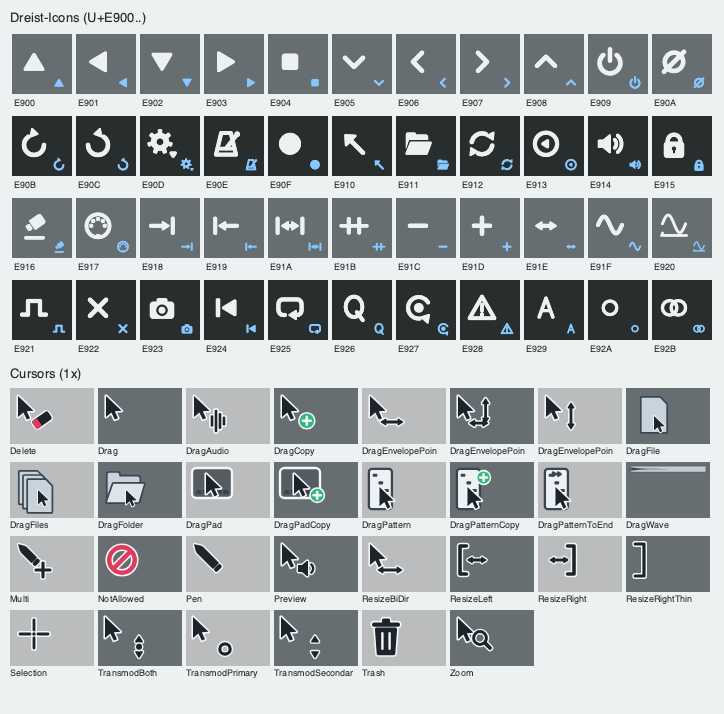
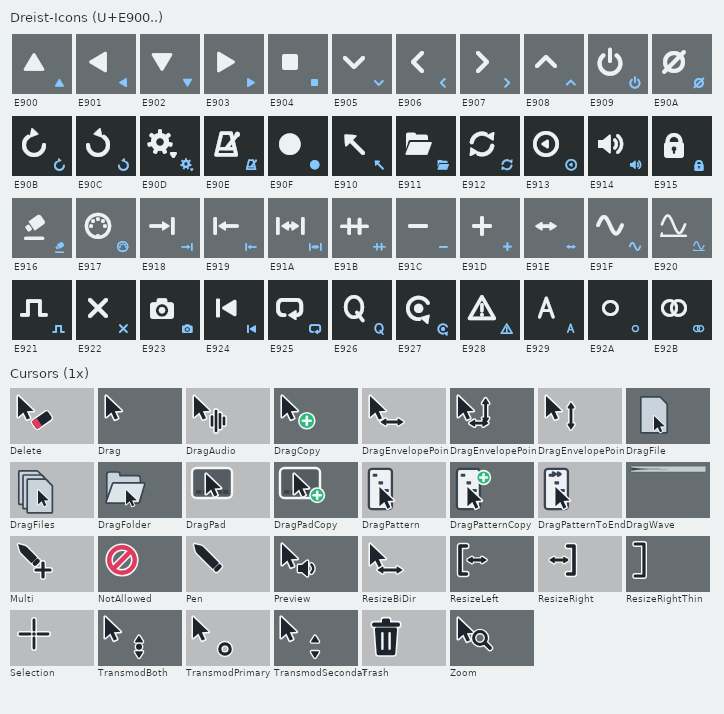
fix(ui): envelopes stand out over the layer waveform (#94)

diff --git a/scripts/uigen/theme.py b/scripts/uigen/theme.py
@@ -335,8 +335,8 @@ S("WaveDisplayStyle", kind="WaveDisplayStyle", enumDisabledDrawMode="NormalDrawi
   colFill="PanelGradientStart", colAltFill="PanelGradientEnd", colTimelineBackground="PanelDark", colTimelineText="PanelBright",
   colTimelineMarkers="PanelBright", colCenterLine="PanelDark", colLine="PanelDark", colLineDisabled="PanelMedium", colLineLooping="EditorMedium",
   colStartMarker="PanelBrightest", colEndMarker="PanelBrightest", colLoopStartMarker="EditorBrightest", colLoopEndMarker="EditorBrightest",
-  colPlaybackMarker="EditorMedium", colText="PanelBrightest", colEnvelopeBack="EditorBrightest", colEnvelopeLine="EditorBrightest",
-  colEnvelopeGrab="EditorBrightest")
+  colPlaybackMarker="EditorMedium", colText="PanelBrightest", colEnvelopeBack="EditorAltMedium", colEnvelopeLine="EditorAltDarkest",
+  colEnvelopeGrab="EditorAltBrightest")
 S("WaveDisplayZoomSliderStyle", "ScrollbarStyle", colFill="EditorMedium", colBorder="Transparent")
 S("WaveDisplayZoomSliderWaveStyle", "WaveDisplayStyle", "WaveDisplayStyle", colLine="PanelBright")
 ZOOM = dict(optDrawShadow="false", colText="PanelMedium", colAltText="EditorAltBrightest", **CLEAR)
